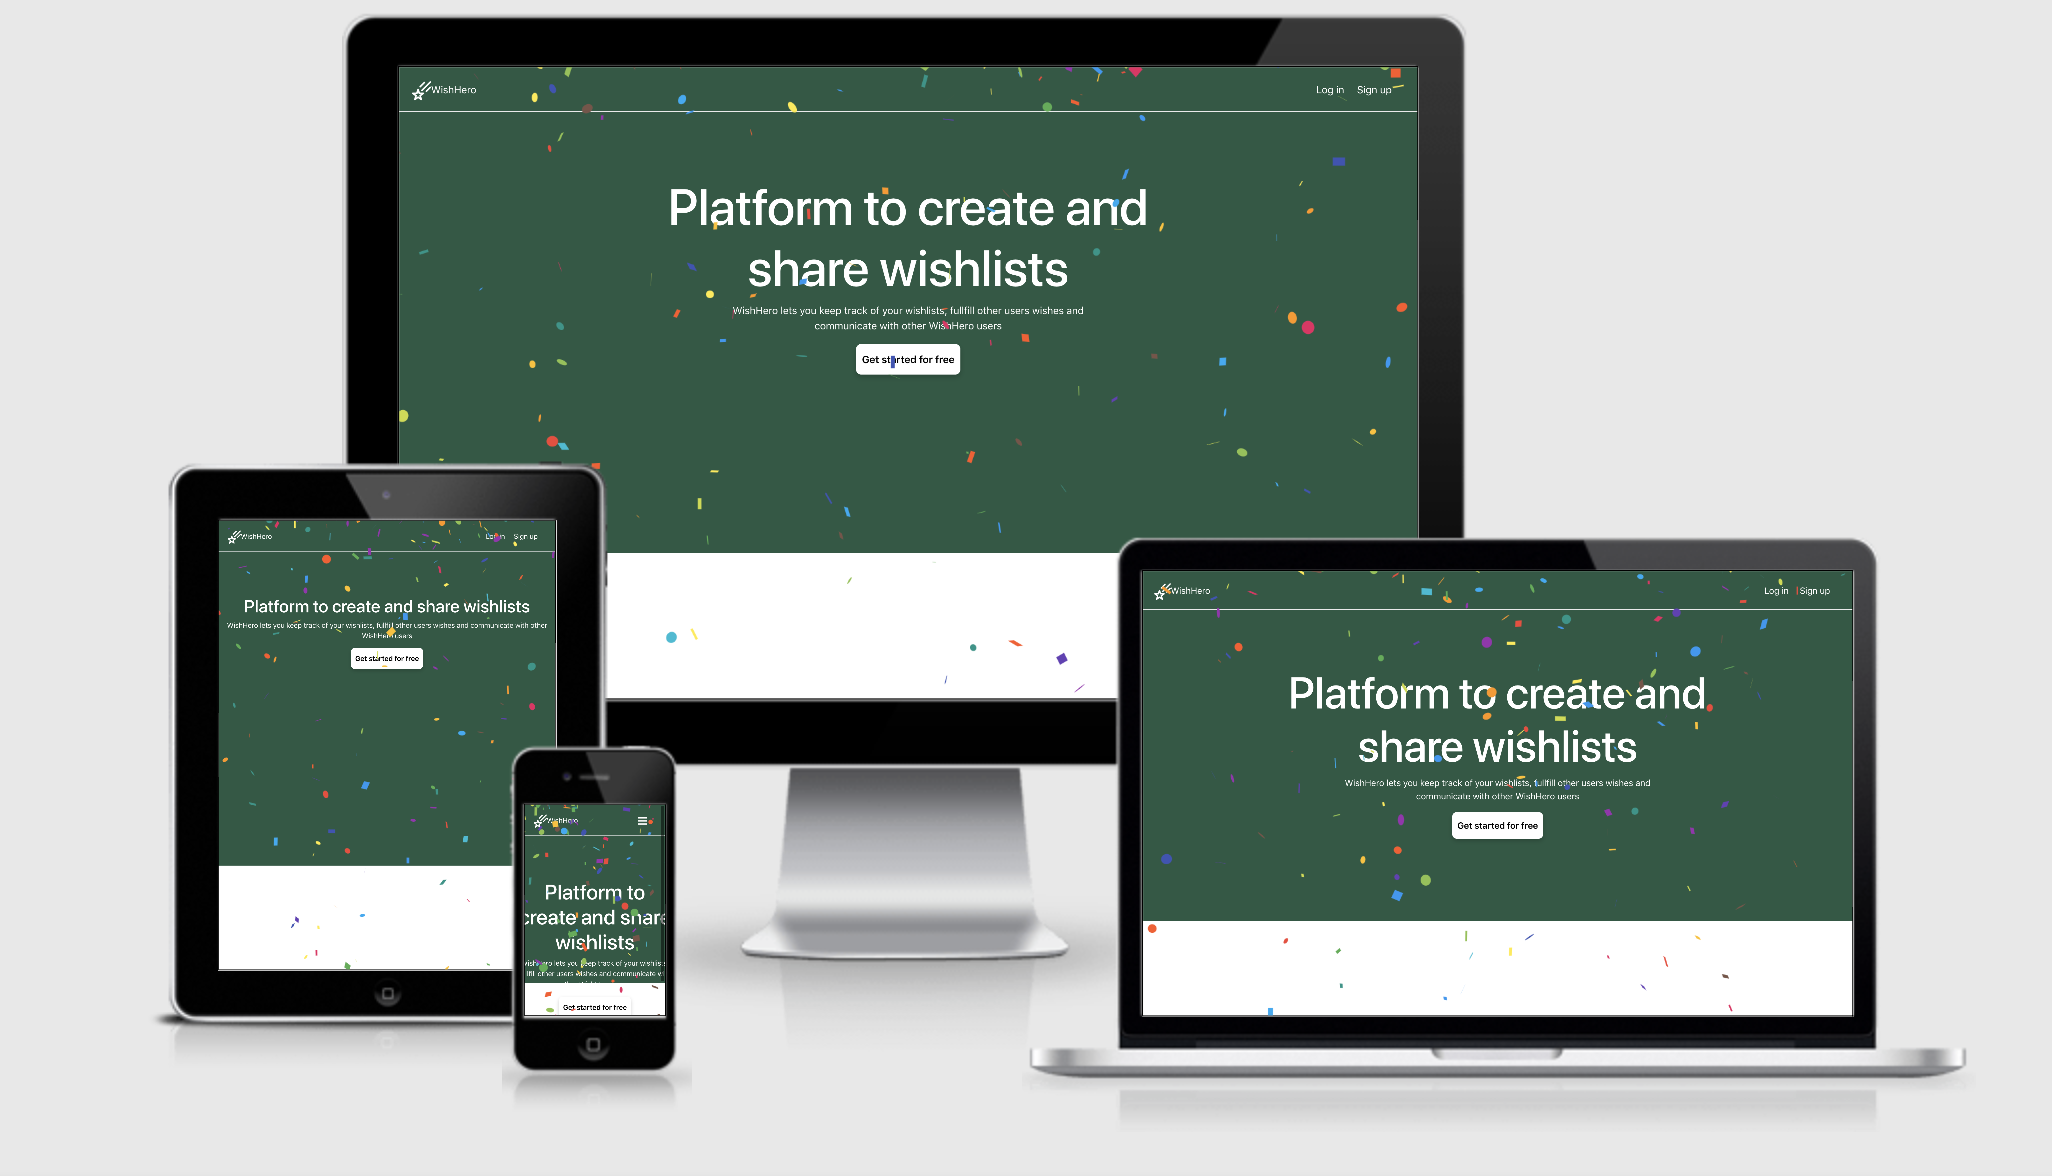
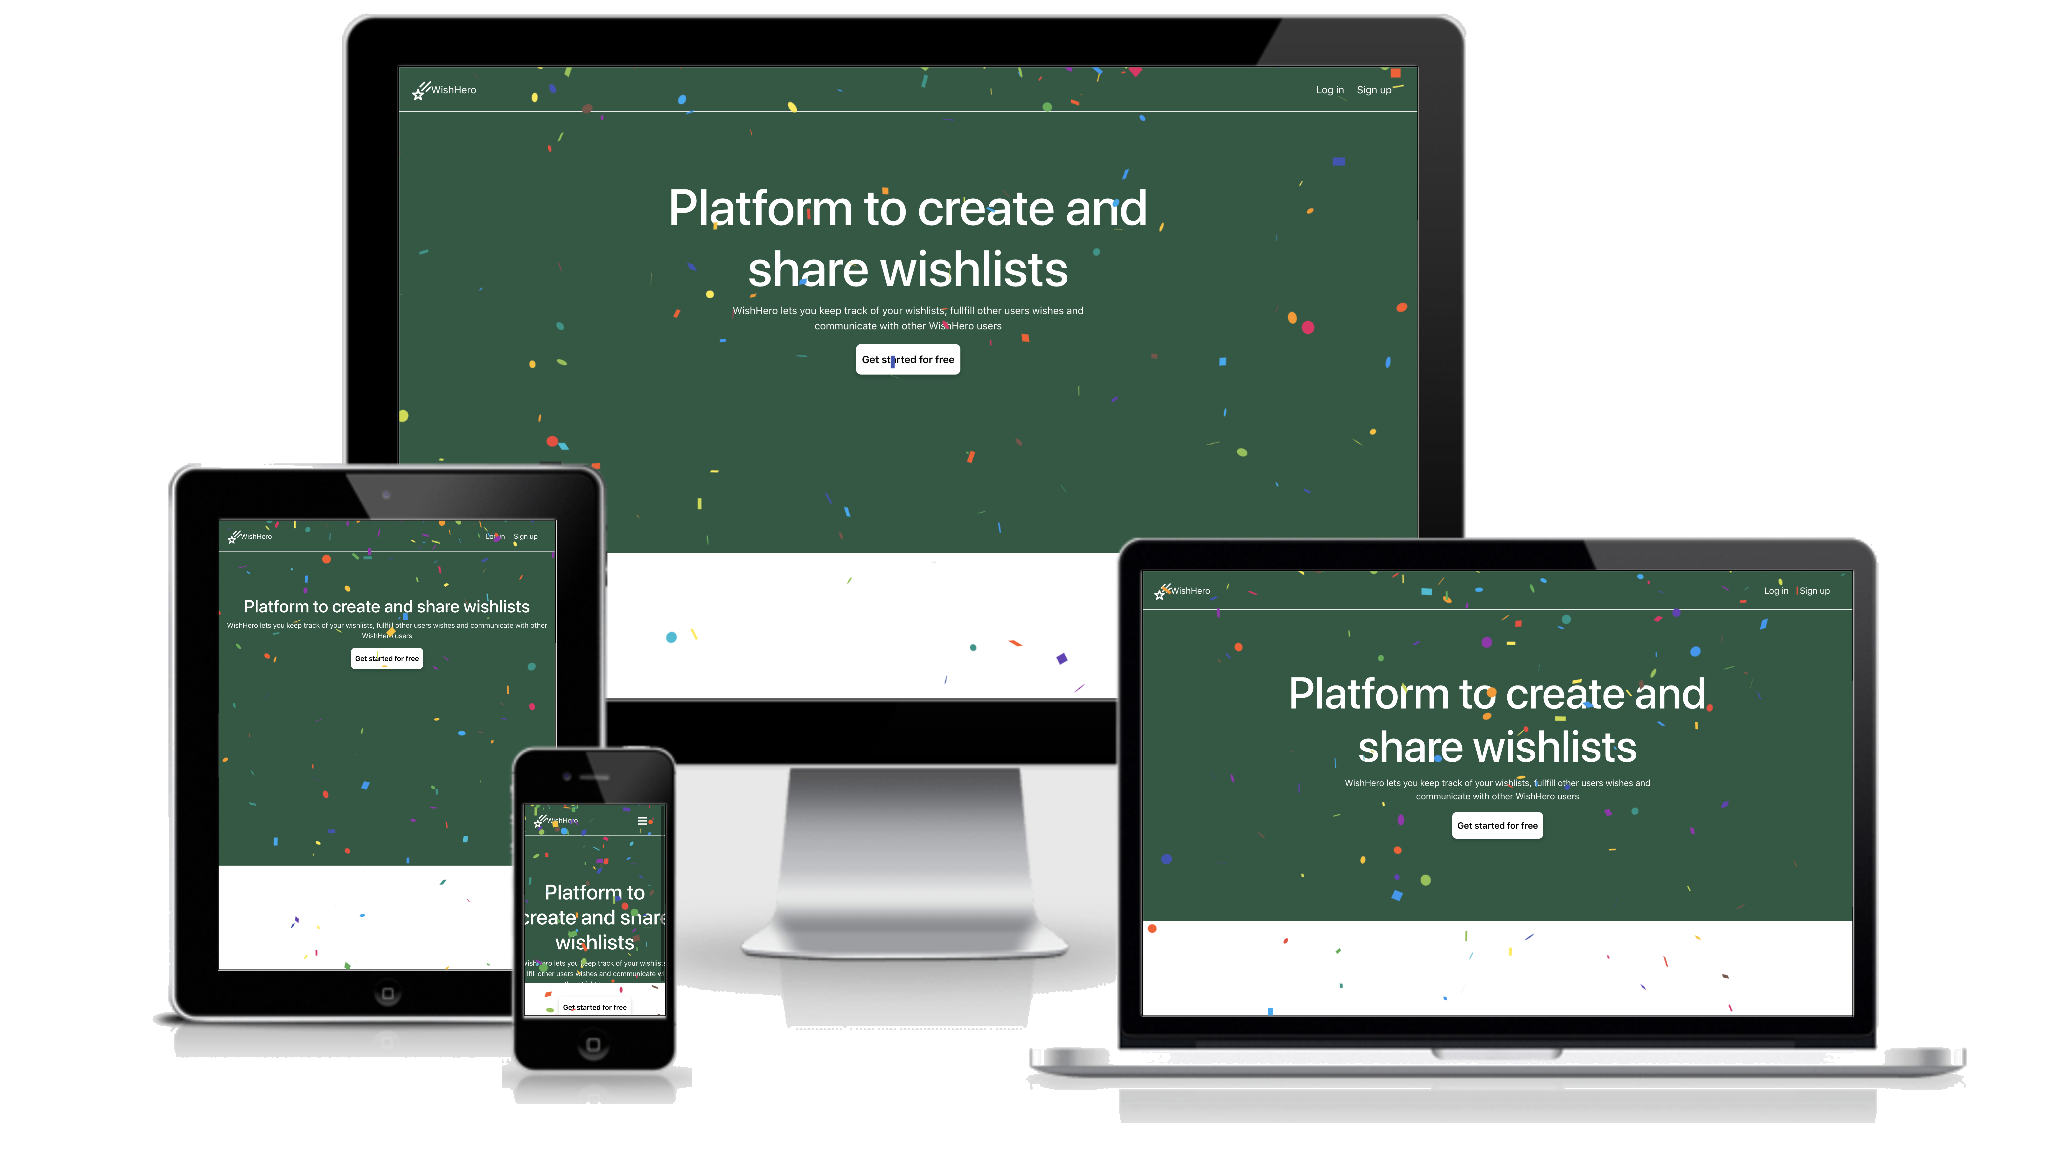
landing page

diff --git a/client/src/index.css b/client/src/index.css
@@ -20,6 +20,13 @@ code {
     monospace;
 }
 
+.footer {
+  display: flex;
+  align-items: center;
+  justify-content: center;
+  height: 5vh;
+}
+
 .input-field {
   border-radius: 20px;
   padding: 17px;
@@ -37,14 +44,15 @@ code {
 
 .landing-container {
   text-align: center;
-  color: white;
+  color: #285943;
   width: 100vw;
   height: 70vh;
   /* background-image: url("./assets/landing.jpg");
-background-position: center;
-background-repeat: no-repeat;
-background-size: cover; */
-  background-color: #285943;
+  background-position: center;
+  background-repeat: no-repeat;
+  background-size: cover; */
+
+  background-color: whitesmoke;
   display: flex;
   flex-direction: column;
   align-items: center;
@@ -87,12 +95,56 @@ background-size: cover; */
 }
 
 .white {
-  /* height: 30vh; */
+  height: 70vh;
   width: 100vw;
-  background-color: #e8e8e8;
+
+  background: rgb(255, 255, 255);
+  background: linear-gradient(
+    180deg,
+    rgba(255, 255, 255, 1) 0%,
+    rgba(232, 232, 232, 1) 100%
+  );
 }
+
+.white img {
+  position: relative;
+  top: -100px;
+  float: left;
+}
+
+.features {
+  padding-top: 100px;
+}
+.features li {
+  list-style-type: none;
+  margin: 25px 0;
+}
+
+.phone-right {
+  display: flex;
+  justify-content: center;
+  width: 100vw;
+  padding-bottom: 200px;
+  background: rgb(232, 232, 232);
+  background: linear-gradient(
+    180deg,
+    rgba(232, 232, 232, 1) 0%,
+    rgba(155, 177, 155, 0.721) 100%
+  );
+}
+
+.phone-right h1 {
+  margin: 100px;
+}
+
+.phone-overlay {
+  position: relative;
+  right: -100px;
+  top: 140px;
+}
+
 .landing-container div {
-  margin-top: 100px;
+  margin-top: 150px;
   width: 800px;
   display: flex;
   flex-direction: column;
@@ -123,6 +175,9 @@ background-size: cover; */
 }
 
 @media (min-width: 320px) and (max-width: 500px) {
+  .landing-container {
+    height: 100vh;
+  }
   .landing-container div {
     width: 350px;
   }
@@ -154,5 +209,15 @@ background-size: cover; */
   .home-container {
     margin-top: 50px;
     text-align: center;
+  }
+
+  .white {
+    display: none;
+  }
+  .phone-right {
+    display: none;
+  }
+  .footer {
+    display: none;
   }
 }

diff --git a/client/src/Landing.js b/client/src/Landing.js
@@ -10,7 +10,7 @@ const Landing = () => {
           <h1>Platform to create and share wishlists</h1>
           <p>
             WishHero lets you keep track of your wishlists, fullfill other users
-            wishes and communicate with other WishHero users{" "}
+            wishes and communicate with other WishHero members{" "}
           </p>
           <Link to="/signup">
             {" "}
@@ -20,6 +20,30 @@ const Landing = () => {
       </div>
       <div className="white">
         <img width="900px" src={require("./assets/responsive.png")} alt="" />
+        <div className="features">
+          <h1>Create. Share. Explore.</h1>
+          <ul>
+            <li>Create as many wish lists as you like</li>
+            <li>Easily add gifts, include links and upload pictures</li>
+            <li>
+              Explore other users wishlists and make their dreams come true
+            </li>
+          </ul>
+        </div>
+      </div>
+      <div className="phone-right">
+        <h1>Easy to manage</h1>
+        <img
+          className="phone-overlay"
+          width="300px"
+          src={require("./assets/chat_phone.png")}
+          alt=""
+        />
+        <img width="300px" src={require("./assets/profile_phone.png")} alt="" />
+        <h1>Easy to add</h1>
+      </div>
+      <div className="footer">
+        &copy; {new Date().getFullYear()} Dalina Weidinger
       </div>
     </>
   );
